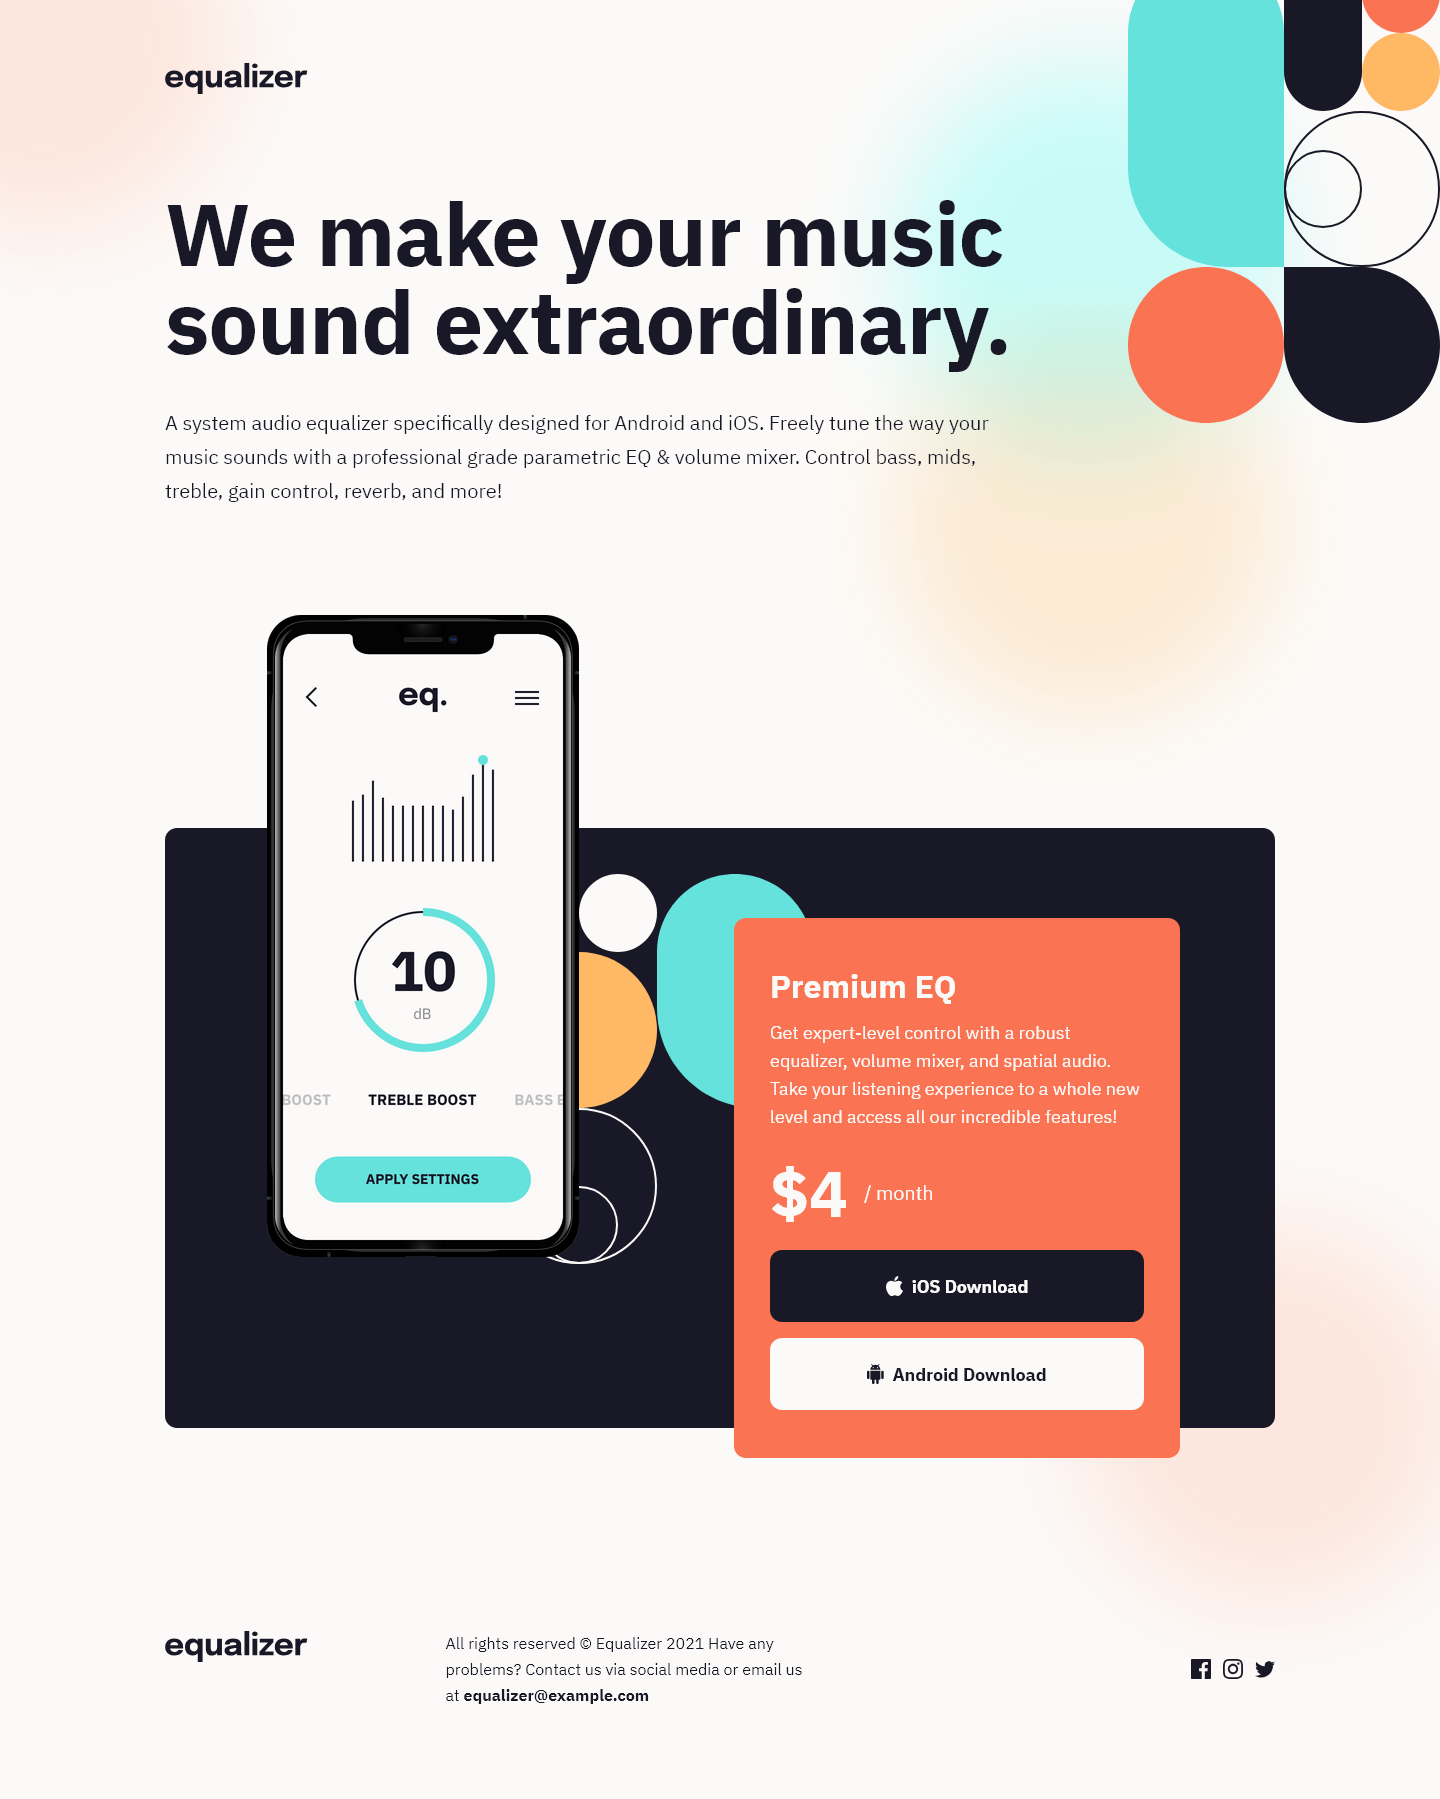
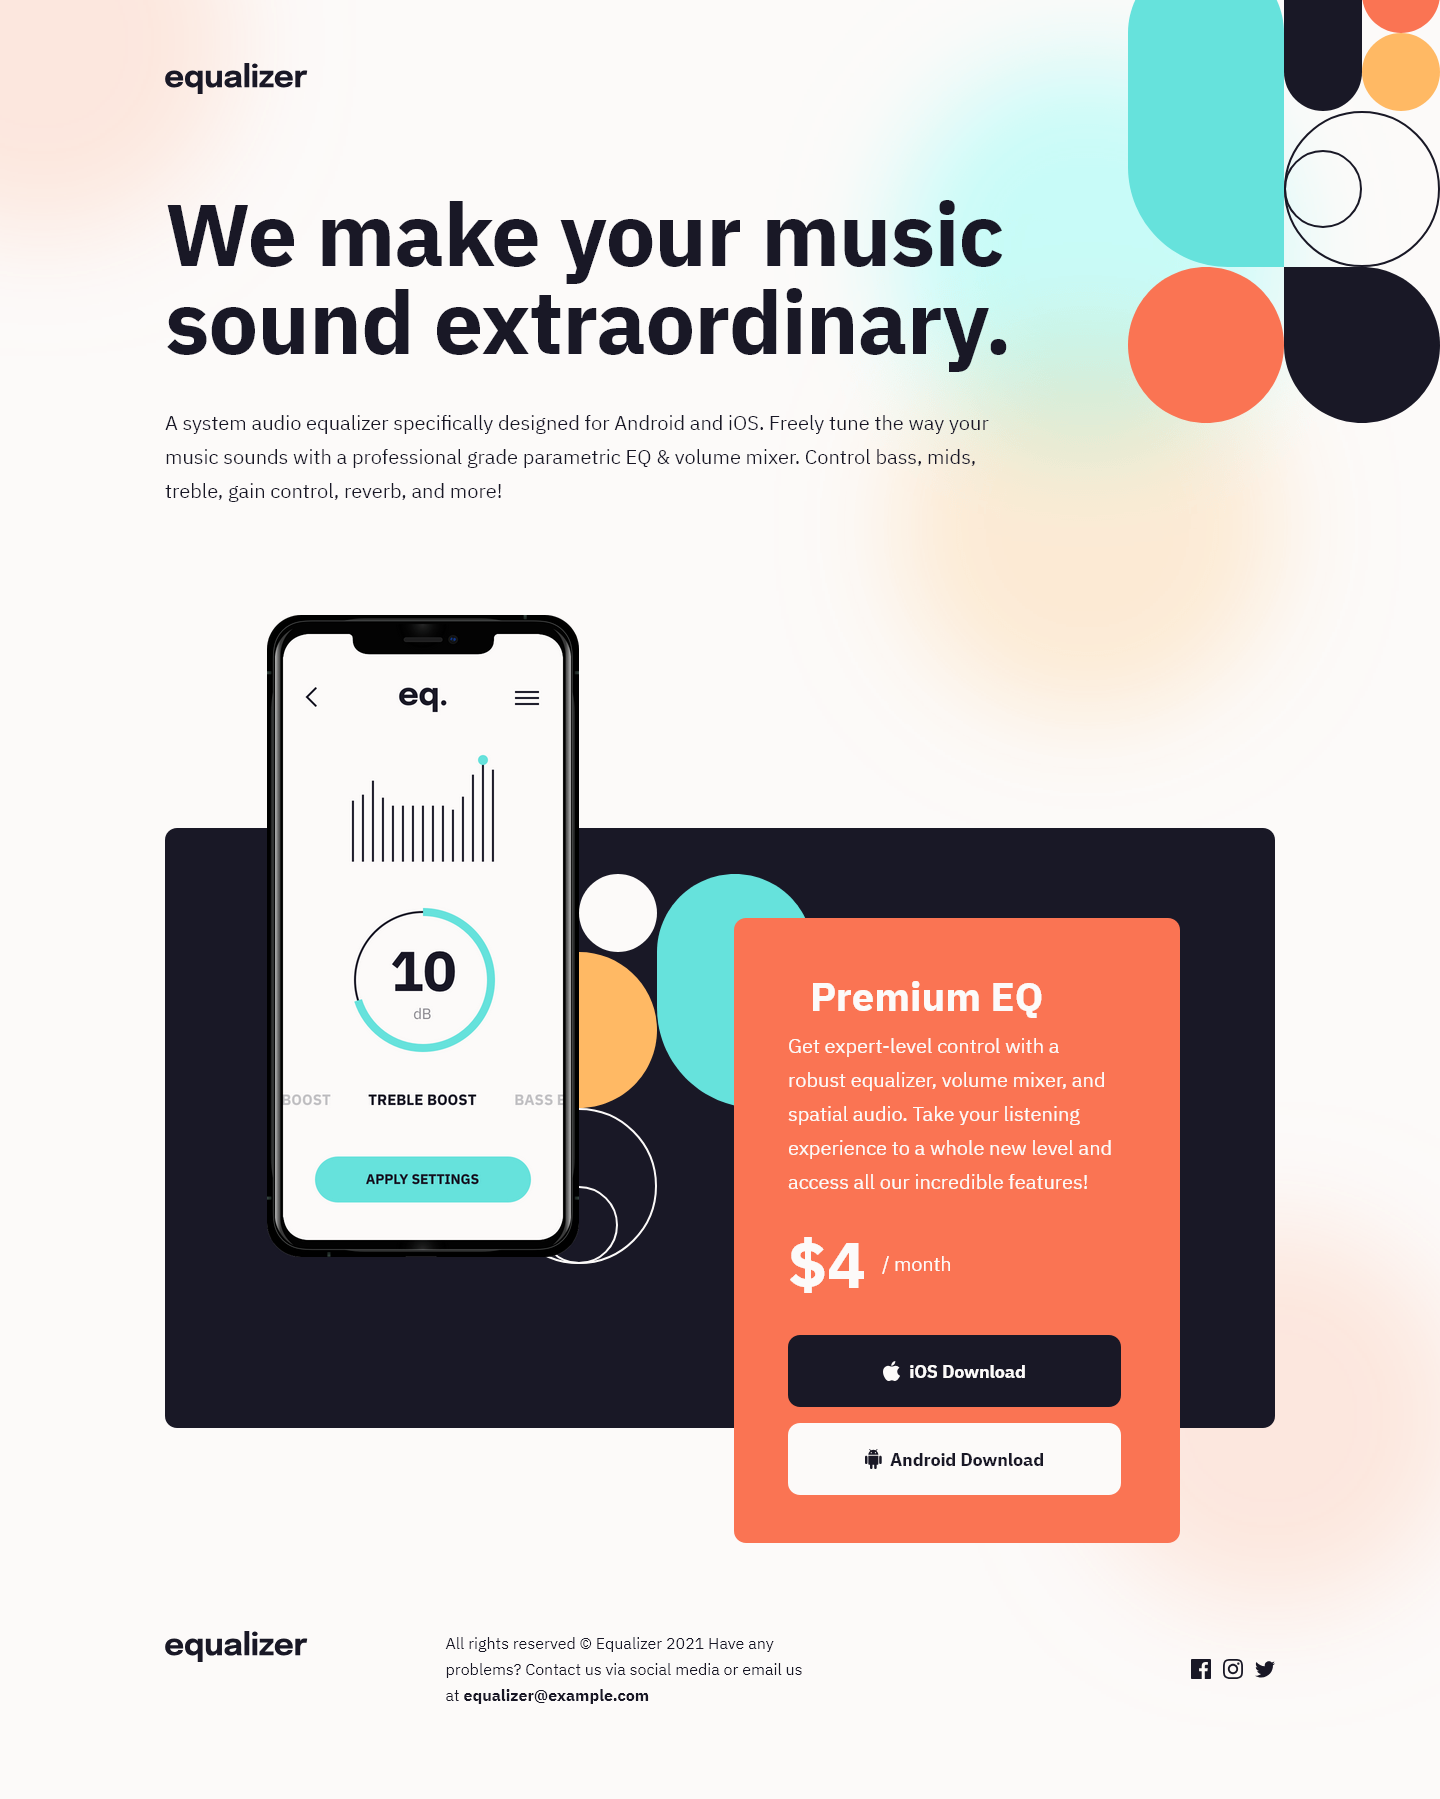
update screenshot and desktop download box style

Changed region(s): [[0.5, 0.5292, 0.8438, 0.8716]]

diff --git a/index.html b/index.html
@@ -64,15 +64,21 @@
       </div>
 
       <div
-        class="md:max-h- absolute top-[380px] z-30 rounded-xl bg-FA7453 px-9 py-12 text-FCFAF9 md:left-[279px] md:top-[150px] md:max-w-[399px] lg:left-[569px] lg:top-[90px] xl:max-w-[446px]"
+        class="md:max-h- absolute top-[380px] z-30 rounded-xl bg-FA7453 px-9 py-12 text-FCFAF9 md:left-[279px] md:top-[150px] md:max-w-[399px] lg:left-[569px] lg:top-[90px] xl:max-w-[446px] xl:pb-[48px] xl:pl-[54px] xl:pr-[59px] xl:pt-[58px]"
       >
-        <h3 class="mb-3 text-[32px] font-bold leading-10">Premium EQ</h3>
-        <p class="mb-9 text-lg leading-7">
+        <h3
+          class="xl:leaidng-[52px] mb-3 text-[32px] font-bold leading-10 xl:mx-[22px] xl:text-[40px]"
+        >
+          Premium EQ
+        </h3>
+        <p
+          class="xl mb-9 text-lg leading-7 xl:mb-[39px] xl:text-xl xl:leading-[34px]"
+        >
           Get expert-level control with a robust equalizer, volume mixer, and
           spatial audio. Take your listening experience to a whole new level and
           access all our incredible features!
         </p>
-        <p class="mb-8 flex items-center gap-4">
+        <p class="mb-8 flex items-center gap-4 xl:mb-[46px]">
           <span class="text-[65px] font-bold leading-[52px]">$4</span>
           <span class="text-xl leading-8 tracking-[-0.2px]">/ month</span>
         </p>
@@ -108,7 +114,9 @@
         <p class="max-w-[366px] text-base leading-[26px]">
           All rights reserved © Equalizer 2021 Have any problems? Contact us
           via social media or email us at <br class="block md:hidden" />
-          <span class="font-bold">equalizer@example.com</span>
+          <a href="mailto:equalizer@example.com" class="font-bold"
+            >equalizer@example.com</a
+          >
         </p>
       </div>
       <div class="flex items-center gap-3 md:mt-[60px] xl:mt-0">

diff --git a/src/output.css b/src/output.css
@@ -1113,6 +1113,11 @@ html {
     margin-right: auto;
   }
 
+  .xl\:mx-\[22px\]{
+    margin-left: 22px;
+    margin-right: 22px;
+  }
+
   .xl\:mb-10{
     margin-bottom: 2.5rem;
   }
@@ -1123,6 +1128,14 @@ html {
 
   .xl\:mt-0{
     margin-top: 0px;
+  }
+
+  .xl\:mb-\[39px\]{
+    margin-bottom: 39px;
+  }
+
+  .xl\:mb-\[46px\]{
+    margin-bottom: 46px;
   }
 
   .xl\:min-w-\[1110px\]{
@@ -1191,6 +1204,22 @@ html {
     padding-left: 165px;
   }
 
+  .xl\:pt-\[58px\]{
+    padding-top: 58px;
+  }
+
+  .xl\:pl-\[54px\]{
+    padding-left: 54px;
+  }
+
+  .xl\:pr-\[59px\]{
+    padding-right: 59px;
+  }
+
+  .xl\:pb-\[48px\]{
+    padding-bottom: 48px;
+  }
+
   .xl\:text-\[88px\]{
     font-size: 88px;
   }
@@ -1198,6 +1227,10 @@ html {
   .xl\:text-xl{
     font-size: 1.25rem;
     line-height: 1.75rem;
+  }
+
+  .xl\:text-\[40px\]{
+    font-size: 40px;
   }
 
   .xl\:leading-\[34px\]{
